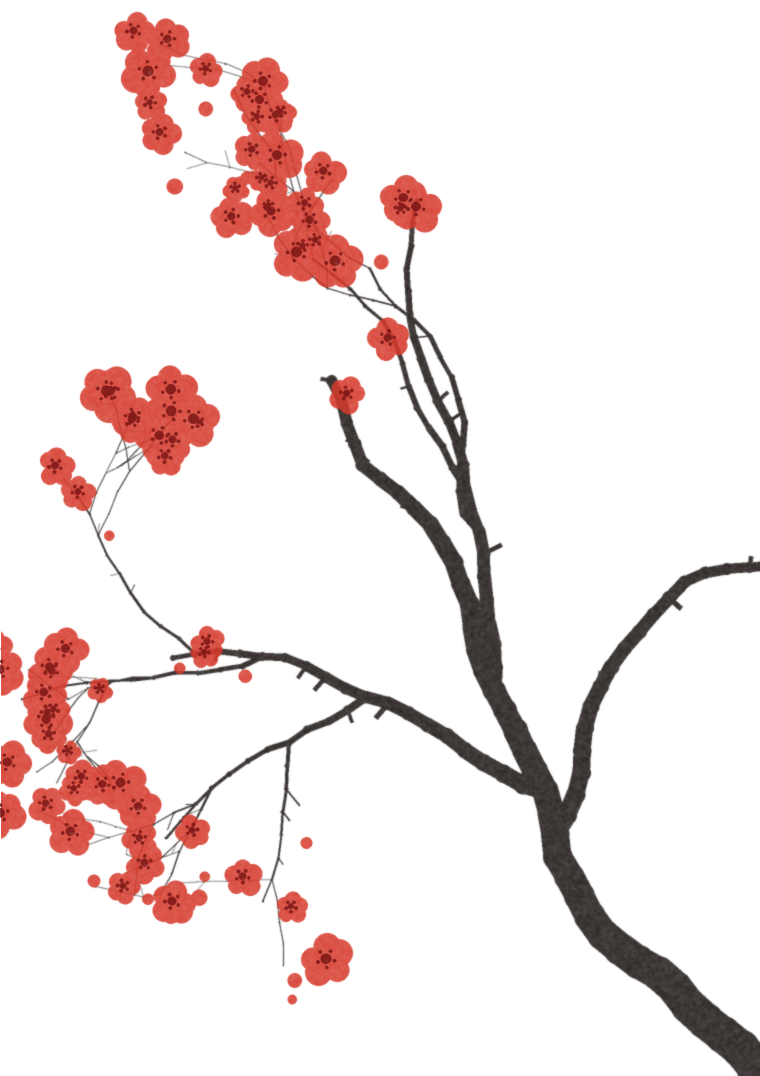
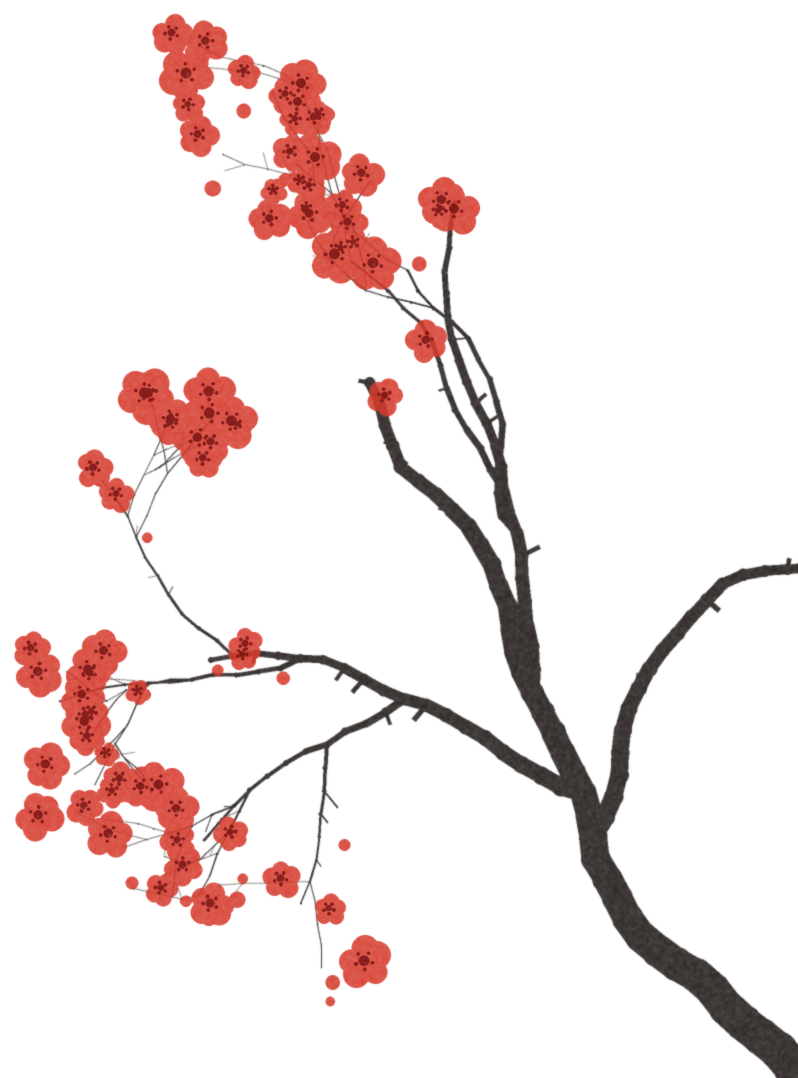
Add files via upload

diff --git a/index.html b/index.html
@@ -4,6 +4,20 @@
 <meta charset="utf-8">
 <meta name="viewport" content="width=device-width, initial-scale=1, viewport-fit=cover">
 <title>飲食 Food Flashcards</title>
+<meta name="description" content="Learn everyday Hong Kong food words in Traditional Chinese, from milk tea to char siu, with Cantonese Jyutping, Mandarin Pinyin, English and audio.">
+<meta property="og:type" content="website">
+<meta property="og:site_name" content="飲食詞彙 Food Flashcards">
+<meta property="og:title" content="飲食詞彙 · Hong Kong Food Flashcards">
+<meta property="og:description" content="Learn everyday Hong Kong food words in Traditional Chinese, from milk tea to char siu, with Cantonese Jyutping, Mandarin Pinyin, English and audio.">
+<meta property="og:url" content="https://shinenanigans.github.io/flashcards_traditionalchinese_english/">
+<meta property="og:image" content="https://shinenanigans.github.io/flashcards_traditionalchinese_english/og-image.jpg">
+<meta property="og:image:width" content="1200">
+<meta property="og:image:height" content="630">
+<meta property="og:image:alt" content="Neon sign reading 飲食詞彙 over a blue-and-white mahjong tile wall, with a milk tea flashcard and a lucky cat tile">
+<meta name="twitter:card" content="summary_large_image">
+<meta name="twitter:title" content="飲食詞彙 · Hong Kong Food Flashcards">
+<meta name="twitter:description" content="Learn everyday Hong Kong food words in Traditional Chinese, from milk tea to char siu, with Cantonese Jyutping, Mandarin Pinyin, English and audio.">
+<meta name="twitter:image" content="https://shinenanigans.github.io/flashcards_traditionalchinese_english/og-image.jpg">
 <link rel="preconnect" href="https://fonts.googleapis.com">
 <link rel="preconnect" href="https://fonts.gstatic.com" crossorigin>
 <link rel="stylesheet" href="https://fonts.googleapis.com/css2?family=Noto+Serif+TC:wght@500;900&family=Instrument+Sans:wght@400;500;600&family=JetBrains+Mono:wght@400;500&display=swap">

diff --git a/about.html b/about.html
@@ -4,6 +4,20 @@
 <meta charset="utf-8">
 <meta name="viewport" content="width=device-width, initial-scale=1, viewport-fit=cover">
 <title>About Shine · 飲食詞彙</title>
+<meta name="description" content="The story behind the Hong Kong food flashcards: why I built them, and how to follow along on my travels.">
+<meta property="og:type" content="website">
+<meta property="og:site_name" content="飲食詞彙 Food Flashcards">
+<meta property="og:title" content="About Shine · 飲食詞彙">
+<meta property="og:description" content="The story behind the Hong Kong food flashcards: why I built them, and how to follow along on my travels.">
+<meta property="og:url" content="https://shinenanigans.github.io/flashcards_traditionalchinese_english/about.html">
+<meta property="og:image" content="https://shinenanigans.github.io/flashcards_traditionalchinese_english/og-image.jpg">
+<meta property="og:image:width" content="1200">
+<meta property="og:image:height" content="630">
+<meta property="og:image:alt" content="Neon sign reading 飲食詞彙 over a blue-and-white mahjong tile wall, with a milk tea flashcard and a lucky cat tile">
+<meta name="twitter:card" content="summary_large_image">
+<meta name="twitter:title" content="About Shine · 飲食詞彙">
+<meta name="twitter:description" content="The story behind the Hong Kong food flashcards: why I built them, and how to follow along on my travels.">
+<meta name="twitter:image" content="https://shinenanigans.github.io/flashcards_traditionalchinese_english/og-image.jpg">
 <link rel="preconnect" href="https://fonts.googleapis.com">
 <link rel="preconnect" href="https://fonts.gstatic.com" crossorigin>
 <link rel="stylesheet" href="https://fonts.googleapis.com/css2?family=Noto+Serif+TC:wght@600;900&family=Source+Serif+4:ital,opsz,wght@0,8..60,400;0,8..60,600;1,8..60,400&family=Instrument+Sans:wght@500;600&display=swap">
